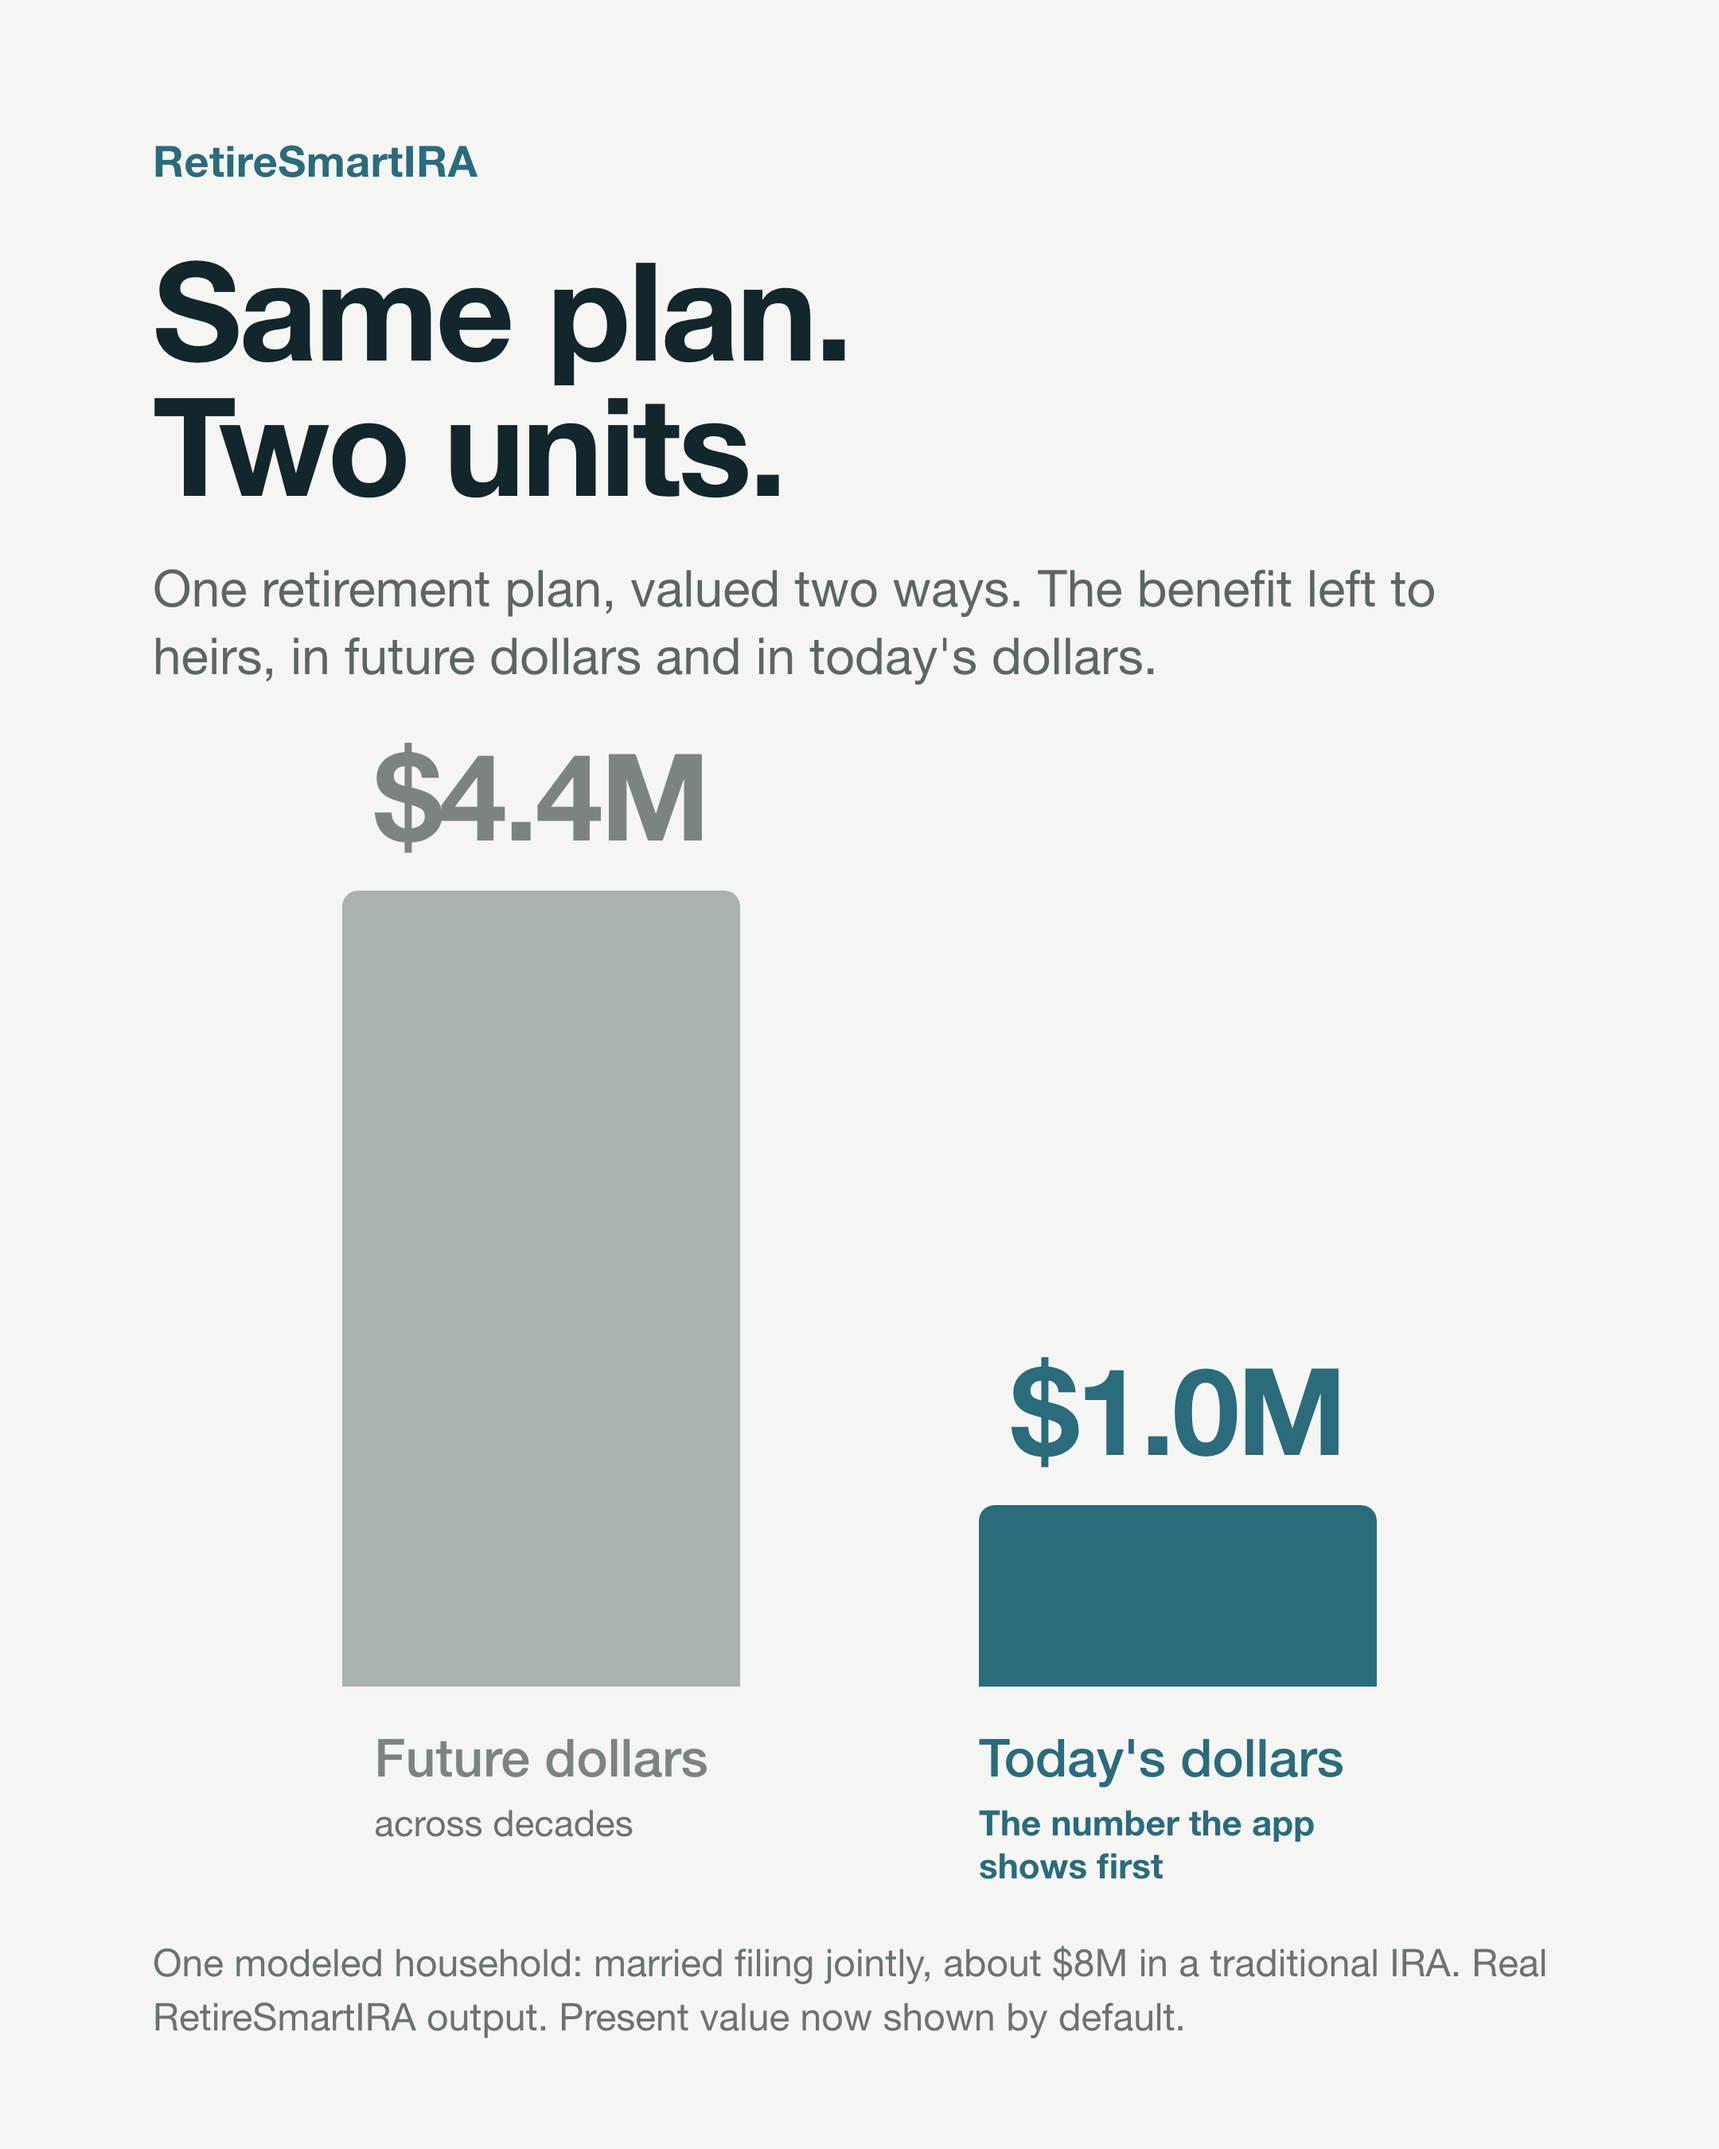
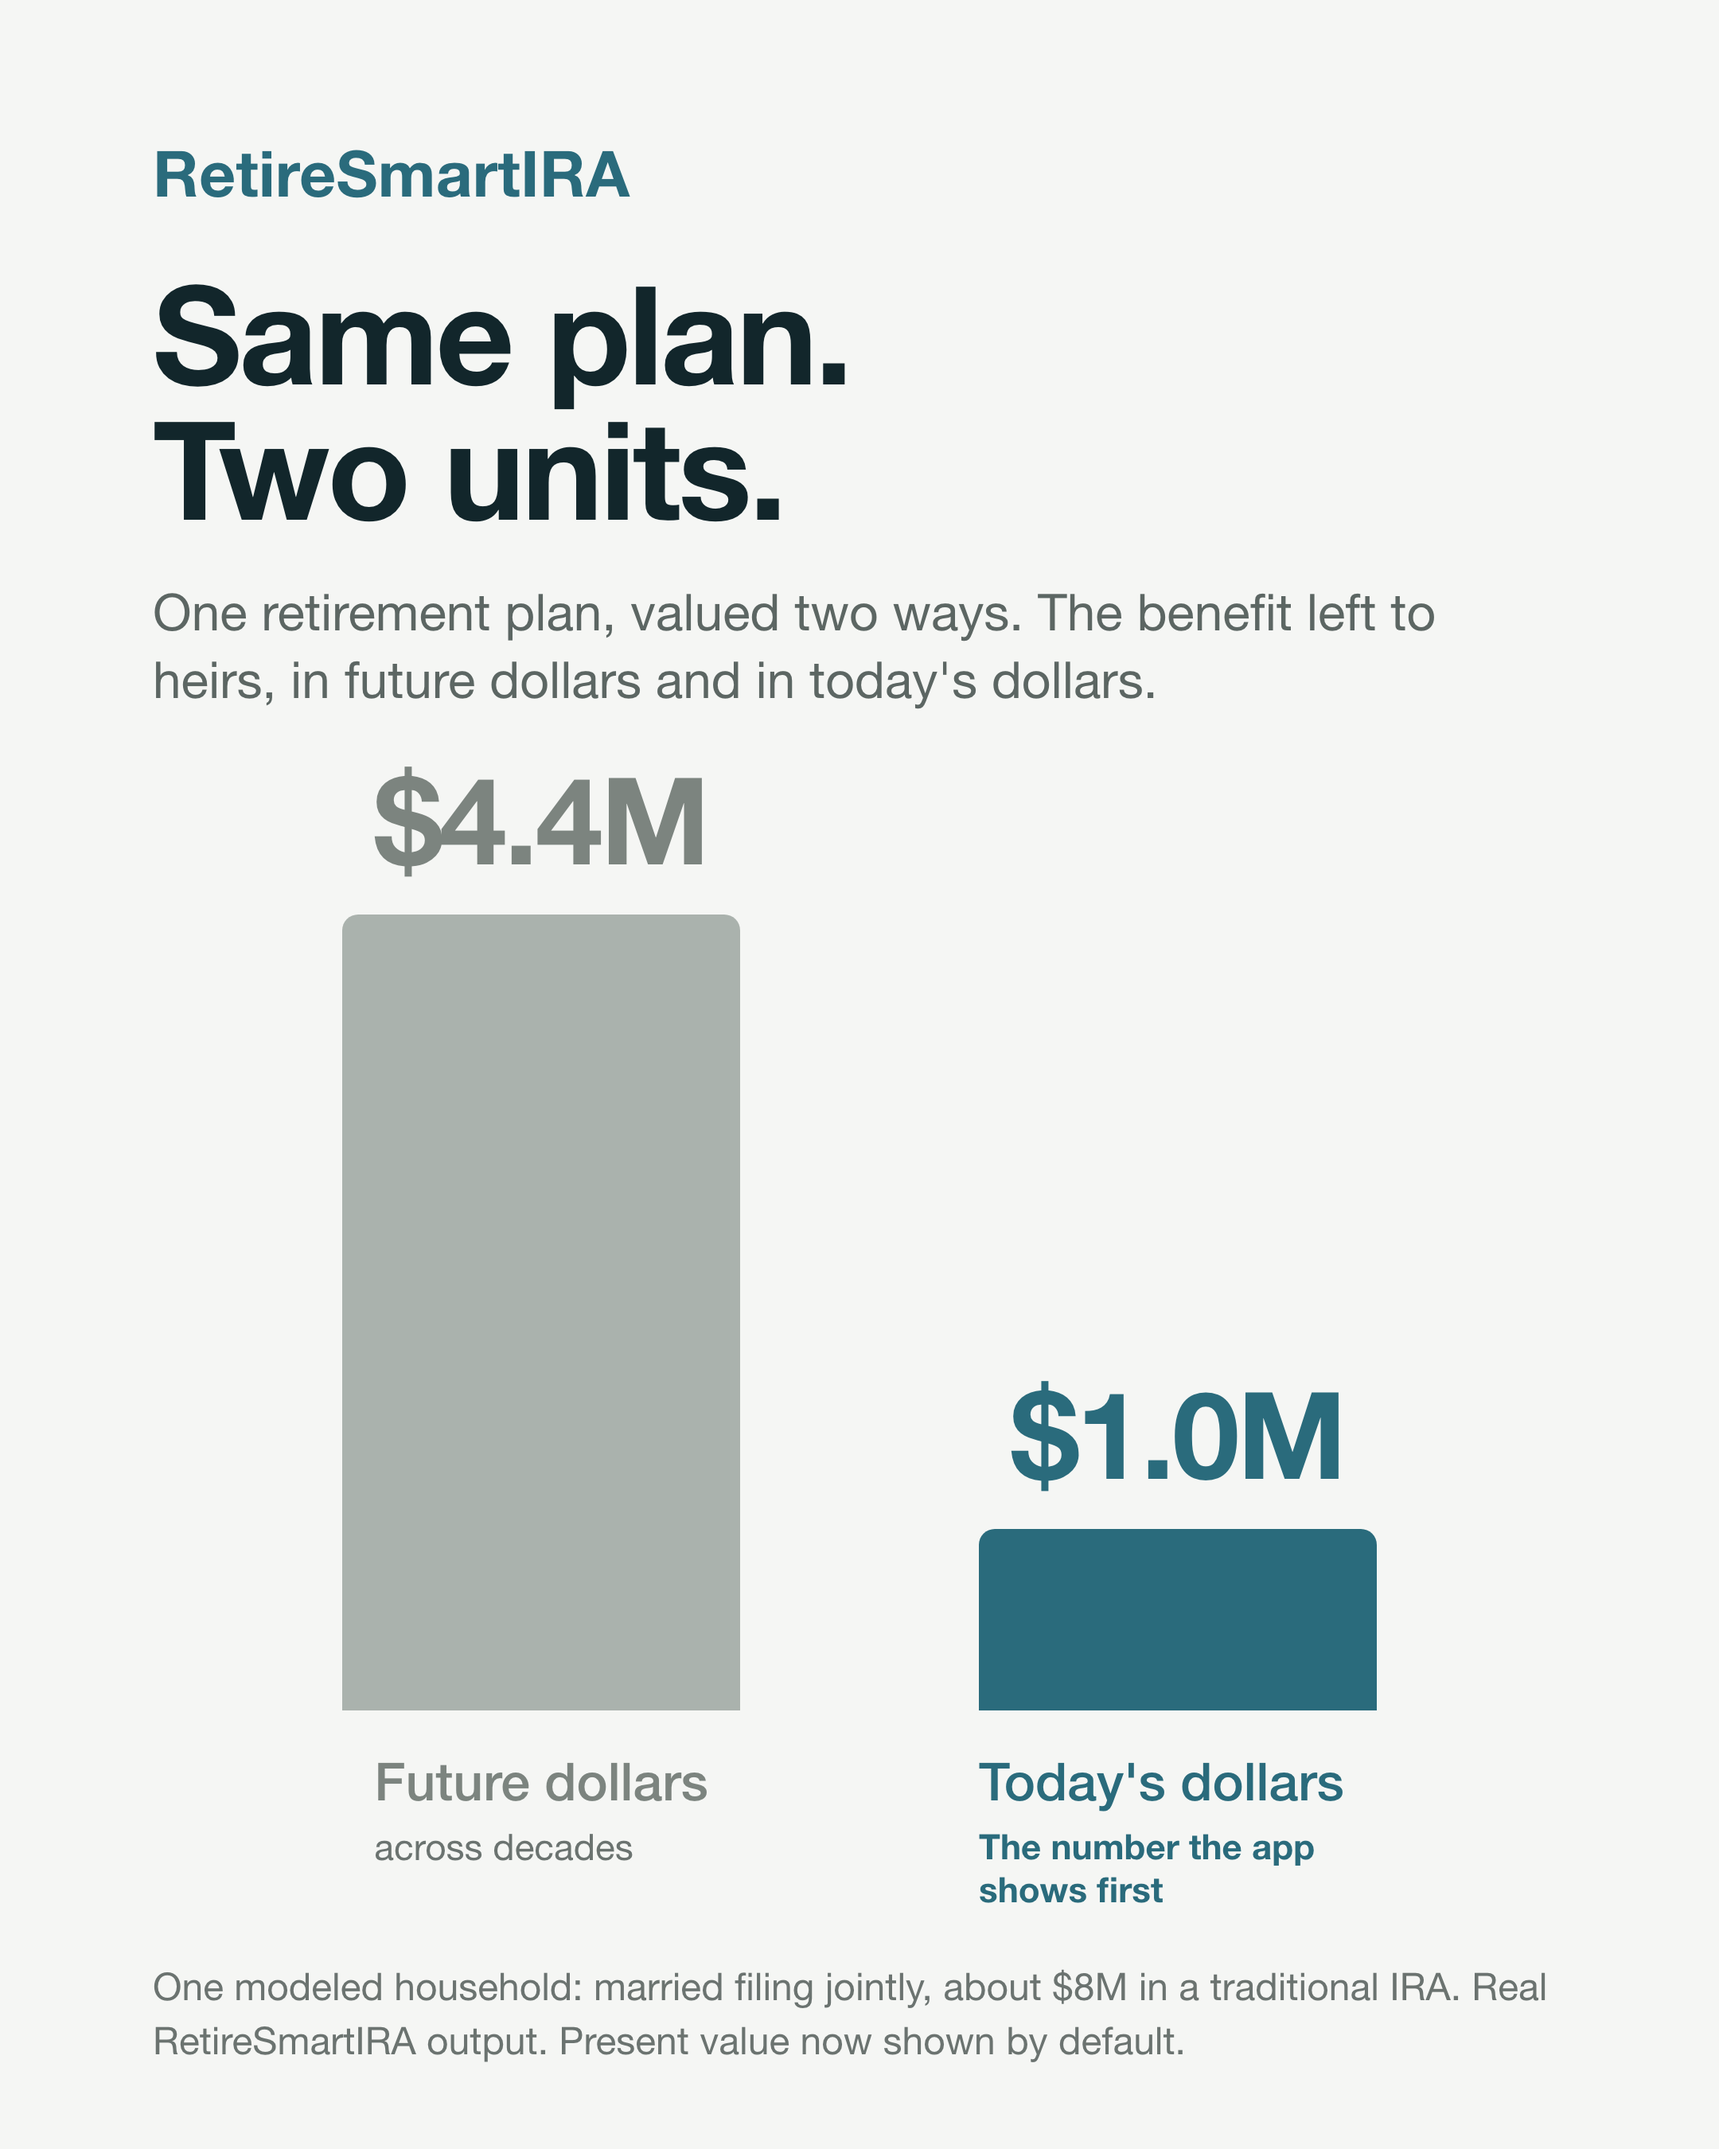
docs(memory): enlarge RetireSmartIRA wordmark to 40px in the LinkedIn visual
Bumped from 27px so the brand reads as intentional and survives an image-only
reshare, while the 86px headline still dominates the stop-scroll.

diff --git a/.claude/memory/drafts/linkedin/2026-07-20-v2.1.2-present-value-visual.html b/.claude/memory/drafts/linkedin/2026-07-20-v2.1.2-present-value-visual.html
@@ -17,7 +17,7 @@
     display: flex; flex-direction: column;
   }
   .wordmark {
-    font-size: 27px; font-weight: 700; letter-spacing: 0.01em;
+    font-size: 40px; font-weight: 700; letter-spacing: 0.005em;
     color: #2A6B7C;
   }
   .title {
